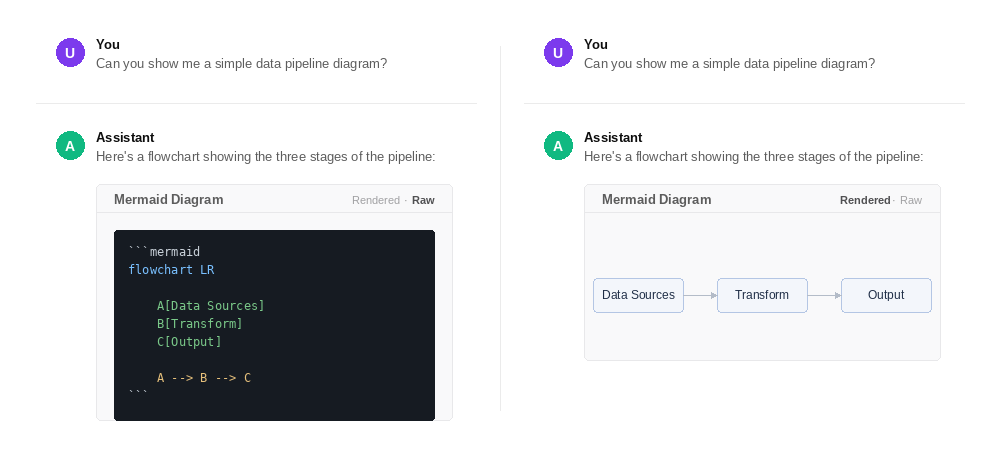
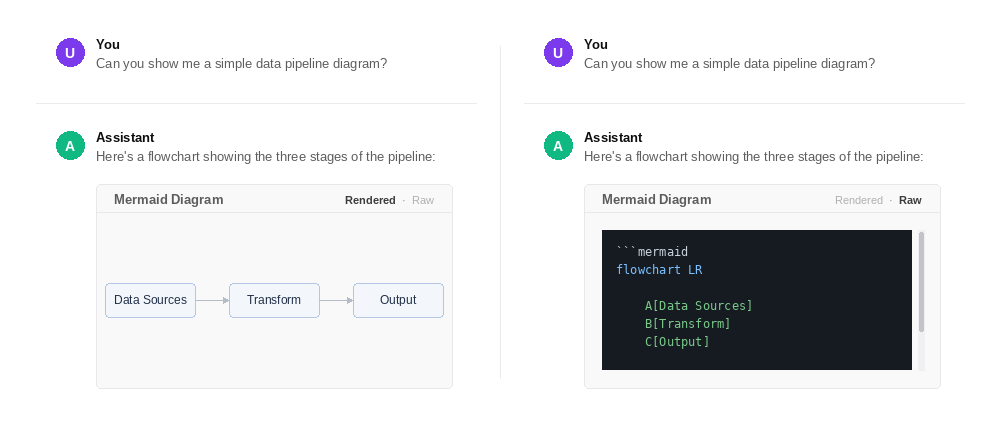
samples: rendered left sets size, raw right matches with scrollbar
Rendered panel is always on the left and its content height determines
the frame size. Raw panel on the right is the exact same dimensions;
content is clipped to that height and a scrollbar is drawn when raw
text overflows the viewport.

Claude-Session: https://claude.ai/code/session_01CYjqpWt1v2JhCDuDBEJCSM

diff --git a/samples/generate_renderer_preview.py b/samples/generate_renderer_preview.py
@@ -1,7 +1,7 @@
 """
-Renderer preview PNGs — inline chat thread mockups, subtle content-embed styling.
-The rendered object is part of the conversation, not a separate component.
-Two panels per image: Raw (left) · Rendered (right).
+Renderer preview PNGs — inline chat thread mockups.
+Left panel: Rendered (sets the frame size).
+Right panel: Raw — same frame size as Rendered, scrollbar shown if content overflows.
 Run: python3 generate_renderer_preview.py
 """
 
@@ -17,14 +17,14 @@ os.makedirs(OUT_DIR, exist_ok=True)
 # ── Palette ────────────────────────────────────────────────────────────────
 WHITE          = (255, 255, 255)
 PAGE_BG        = (255, 255, 255)
-TEXT_PRIMARY   = ( 13,  13,  13)      # near-black — matches chat prose
-TEXT_SECONDARY = ( 92,  92,  92)      # muted — matches chat secondary text
-TEXT_LABEL     = (148, 148, 148)      # very muted label / meta text
+TEXT_PRIMARY   = ( 13,  13,  13)
+TEXT_SECONDARY = ( 92,  92,  92)
+TEXT_LABEL     = (148, 148, 148)
 DIVIDER        = (235, 235, 235)
 AVATAR_USER    = (124,  58, 237)
 AVATAR_ASST    = ( 16, 185, 129)
-EMBED_BG       = (249, 249, 250)      # barely-there tint for content block
-EMBED_BORDER   = (232, 232, 234)      # very subtle 1px border
+EMBED_BG       = (249, 249, 250)
+EMBED_BORDER   = (232, 232, 234)
 CODE_BG        = ( 22,  27,  34)
 CODE_TEXT      = (201, 209, 217)
 CODE_BLUE      = (121, 192, 255)
@@ -34,8 +34,10 @@ NODE_FILL      = (243, 246, 251)
 NODE_BORDER    = (180, 198, 228)
 NODE_TEXT      = ( 30,  45,  70)
 ARROW_COL      = (180, 188, 200)
-TOGGLE_TEXT    = (160, 160, 162)      # very muted toggle labels
-TOGGLE_ACTIVE  = ( 80,  80,  82)      # slightly darker when active
+TOGGLE_ACTIVE  = ( 60,  60,  62)
+TOGGLE_MUTED   = (175, 175, 178)
+SCROLL_TRACK   = (240, 240, 242)
+SCROLL_THUMB   = (196, 196, 200)
 
 # ── Fonts ──────────────────────────────────────────────────────────────────
 def fnt(path, size):
@@ -53,6 +55,11 @@ def twidth(text, font):
 # ── Primitives ─────────────────────────────────────────────────────────────
 def rrect(draw, xy, r, fill=None, outline=None, lw=1):
     x0, y0, x1, y1 = xy
+    r = min(r, (x1-x0)//2, (y1-y0)//2)
+    if r < 1:
+        if fill:    draw.rectangle([x0,y0,x1,y1], fill=fill)
+        if outline: draw.rectangle([x0,y0,x1,y1], outline=outline, width=lw)
+        return
     if fill:
         draw.rectangle([x0+r, y0, x1-r, y1], fill=fill)
         draw.rectangle([x0, y0+r, x1, y1-r], fill=fill)
@@ -84,8 +91,9 @@ def draw_wrapped(draw, text, x, y, max_w, font, color, lh=21):
             if line: lines.append(' '.join(line))
             line = [w]
     if line: lines.append(' '.join(line))
-    for i, l in enumerate(lines):
-        draw.text((x, y + i*lh), l, font=font, fill=color)
+    if draw:
+        for i, l in enumerate(lines):
+            draw.text((x, y + i*lh), l, font=font, fill=color)
     return y + len(lines) * lh
 
 def arrow_h(draw, x0, y, x1, color=ARROW_COL, head=6):
@@ -100,66 +108,98 @@ def node(draw, cx, cy, w, h, label, r=4):
     iw = twidth(label, f)
     draw.text((cx - iw//2, cy-7), label, font=f, fill=NODE_TEXT)
 
-# ── Content embed ──────────────────────────────────────────────────────────
-# No header bar. Title is inline with toggle, same weight as chat body.
-# Container is barely-there: light bg tint + 1px subtle border.
+# ── Scrollbar ──────────────────────────────────────────────────────────────
+SCROLL_W = 6   # scrollbar track width
 
-EMBED_R    = 5
-EMBED_PAD  = 18       # internal padding
+def draw_scrollbar(draw, x, y0, y1, full_h, visible_h):
+    """Draw a minimal OS-style scrollbar. full_h = total content h, visible_h = viewport h."""
+    track_h = y1 - y0
+    thumb_h  = max(24, int(track_h * visible_h / full_h))
+    thumb_y  = y0   # scrolled to top for preview
+    # track (invisible — same as bg)
+    draw.rectangle([x, y0, x+SCROLL_W, y1], fill=SCROLL_TRACK)
+    # thumb
+    rrect(draw, [x+1, thumb_y+2, x+SCROLL_W-1, thumb_y+thumb_h-2], 3, fill=SCROLL_THUMB)
 
-def render_embed(draw, img, x0, y0, embed_w, title, active_side, content_fn):
-    """
-    Draw a minimal content embed — title + toggle on one line, then content.
-    No header bar, no component chrome. Flows as part of the message.
-    Returns bottom y.
-    """
-    content_h = content_fn(None, 0, 0, embed_w - EMBED_PAD*2, 0, measure=True)
-    title_row_h = 28
-    total_h = title_row_h + content_h + EMBED_PAD
-    x1, y1 = x0 + embed_w, y0 + total_h
+# ── Embed chrome ───────────────────────────────────────────────────────────
+EMBED_R       = 5
+EMBED_PAD     = 18
+TITLE_ROW_H   = 28
 
-    # subtle container
+def _draw_embed_chrome(draw, x0, y0, x1, y1, title, active_side):
+    """Draw the subtle container, title, and toggle. No content."""
     rrect(draw, [x0, y0, x1, y1], EMBED_R, fill=EMBED_BG, outline=EMBED_BORDER, lw=1)
+    draw.text((x0 + EMBED_PAD, y0 + 8), title, font=BOLD(13), fill=TEXT_SECONDARY)
 
-    # title — same font weight as bold chat text (BOLD 13), muted color
-    tf = BOLD(13)
-    draw.text((x0 + EMBED_PAD, y0 + 8), title, font=tf, fill=TEXT_SECONDARY)
-
-    # toggle — very subtle, top right, plain text links
-    tog_f = UI(11)
-    rend_lbl = "Rendered"
-    raw_lbl  = "Raw"
-    sep      = "·"
-    # positions from right
+    # toggle — plain text, top right
+    tog_f   = UI(11)
+    tog_b   = BOLD(11)
+    sep     = "·"
+    raw_lbl = "Raw"
+    rnd_lbl = "Rendered"
     rx = x1 - EMBED_PAD
-    rend_w = twidth(rend_lbl, tog_f)
-    raw_w  = twidth(raw_lbl,  tog_f)
-    sep_w  = twidth(sep,      tog_f) + 8
-
-    raw_x  = rx - raw_w
-    sep_x  = raw_x - sep_w
-    rend_x = sep_x - rend_w
+    raw_x = rx - twidth(raw_lbl, tog_b if active_side == 'raw' else tog_f)
+    sep_x = raw_x - twidth(sep, tog_f) - 10
+    rnd_x = sep_x - twidth(rnd_lbl, tog_b if active_side == 'rendered' else tog_f) - 2
 
     tog_y = y0 + 10
-
     if active_side == 'rendered':
-        draw.text((rend_x, tog_y), rend_lbl, font=BOLD(11), fill=TOGGLE_ACTIVE)
-        draw.text((sep_x + 4, tog_y), sep, font=tog_f, fill=TEXT_LABEL)
-        draw.text((raw_x,  tog_y), raw_lbl,  font=tog_f, fill=TOGGLE_TEXT)
+        draw.text((rnd_x, tog_y), rnd_lbl, font=tog_b, fill=TOGGLE_ACTIVE)
+        draw.text((sep_x + 4, tog_y), sep,  font=tog_f, fill=TEXT_LABEL)
+        draw.text((raw_x, tog_y),  raw_lbl, font=tog_f, fill=TOGGLE_MUTED)
     else:
-        draw.text((rend_x, tog_y), rend_lbl, font=tog_f, fill=TOGGLE_TEXT)
-        draw.text((sep_x + 4, tog_y), sep, font=tog_f, fill=TEXT_LABEL)
-        draw.text((raw_x,  tog_y), raw_lbl,  font=BOLD(11), fill=TOGGLE_ACTIVE)
+        draw.text((rnd_x, tog_y), rnd_lbl, font=tog_f, fill=TOGGLE_MUTED)
+        draw.text((sep_x + 4, tog_y), sep,  font=tog_f, fill=TEXT_LABEL)
+        draw.text((raw_x, tog_y),  raw_lbl, font=tog_b, fill=TOGGLE_ACTIVE)
 
-    # thin rule below title row
-    draw.line([(x0+1, y0+title_row_h), (x1-1, y0+title_row_h)], fill=EMBED_BORDER, width=1)
+    # rule under title row
+    draw.line([(x0+1, y0+TITLE_ROW_H), (x1-1, y0+TITLE_ROW_H)], fill=EMBED_BORDER, width=1)
 
-    # content
+def render_embed_rendered(draw, img, x0, y0, embed_w, title, content_fn):
+    """
+    Draw the Rendered embed. Content determines the height.
+    Returns (bottom_y, content_h_inside) so Raw can match.
+    """
+    content_h = content_fn(None, 0, 0, embed_w - EMBED_PAD*2, 0, measure=True)
+    total_h   = TITLE_ROW_H + EMBED_PAD + content_h + EMBED_PAD
+    x1, y1    = x0 + embed_w, y0 + total_h
+    _draw_embed_chrome(draw, x0, y0, x1, y1, title, 'rendered')
     cx0 = x0 + EMBED_PAD
-    cy0 = y0 + title_row_h + EMBED_PAD
+    cy0 = y0 + TITLE_ROW_H + EMBED_PAD
     cx1 = x1 - EMBED_PAD
     cy1 = y1 - EMBED_PAD
     content_fn(draw, cx0, cy0, cx1, cy1, measure=False)
+    return y1, total_h
+
+def render_embed_raw(draw, img, x0, y0, embed_w, title, total_h, content_fn):
+    """
+    Draw the Raw embed at the exact same total_h as the Rendered embed.
+    Clips content to the viewport; draws a scrollbar if content is taller.
+    """
+    x1, y1    = x0 + embed_w, y0 + total_h
+    _draw_embed_chrome(draw, x0, y0, x1, y1, title, 'raw')
+
+    viewport_h = total_h - TITLE_ROW_H - EMBED_PAD*2
+    content_h  = content_fn(None, 0, 0, embed_w - EMBED_PAD*2 - SCROLL_W - 4, 0, measure=True)
+    needs_scroll = content_h > viewport_h
+
+    cx0 = x0 + EMBED_PAD
+    cy0 = y0 + TITLE_ROW_H + EMBED_PAD
+    cx1 = x1 - EMBED_PAD - (SCROLL_W + 4 if needs_scroll else 0)
+    cy1 = y0 + total_h - EMBED_PAD
+
+    # clip region — draw content into a temp image then paste clipped
+    cw = cx1 - cx0
+    ch = content_h
+    tmp = Image.new("RGB", (cw, ch), CODE_BG)
+    tmp_draw = ImageDraw.Draw(tmp)
+    content_fn(tmp_draw, 0, 0, cw, ch, measure=False)
+    # paste only the visible portion
+    img.paste(tmp.crop((0, 0, cw, viewport_h)), (cx0, cy0))
+
+    if needs_scroll:
+        sx = x1 - EMBED_PAD - SCROLL_W + 2
+        draw_scrollbar(draw, sx, cy0, cy0 + viewport_h, content_h, viewport_h)
 
     return y1
 
@@ -169,39 +209,62 @@ AV_LEFT   = 20
 MSG_LEFT  = AV_LEFT + AV_R*2 + 12
 MSG_RIGHT = 24
 ROW_GAP   = 26
-EMBED_MT  = 14     # margin above embed
+EMBED_MT  = 14
 
-def paint_thread(img, tx, ty, panel_w,
-                 user_text, asst_text, embed_title, active_side, content_fn):
-    draw = ImageDraw.Draw(img)
-    y    = ty
+def paint_thread(img, tx, ty, panel_w, user_text, asst_text,
+                 embed_title, active_side, content_fn,
+                 fixed_embed_h=None):
+    """
+    Paint a chat thread. Returns (bottom_y, embed_total_h).
+    fixed_embed_h: if set, raw panel uses this height instead of computing it.
+    """
+    draw  = ImageDraw.Draw(img)
+    y     = ty
     msg_w = panel_w - MSG_LEFT - MSG_RIGHT
 
-    # ── User turn ─────────────────────────────────────────────────────────
-    avatar(draw, tx + AV_LEFT + AV_R, y + AV_R + 2, AV_R, AVATAR_USER, "U")
-    draw.text((tx + MSG_LEFT, y + 1), "You", font=BOLD(13), fill=TEXT_PRIMARY)
+    # user
+    avatar(draw, tx+AV_LEFT+AV_R, y+AV_R+2, AV_R, AVATAR_USER, "U")
+    draw.text((tx+MSG_LEFT, y+1), "You", font=BOLD(13), fill=TEXT_PRIMARY)
     y += 20
     y = draw_wrapped(draw, user_text, tx+MSG_LEFT, y, msg_w, UI(13), TEXT_SECONDARY)
     y += ROW_GAP
-
-    # row divider
     draw.line([(tx, y),(tx+panel_w, y)], fill=DIVIDER, width=1)
     y += ROW_GAP
 
-    # ── Assistant turn ────────────────────────────────────────────────────
-    avatar(draw, tx + AV_LEFT + AV_R, y + AV_R + 2, AV_R, AVATAR_ASST, "A")
-    draw.text((tx + MSG_LEFT, y + 1), "Assistant", font=BOLD(13), fill=TEXT_PRIMARY)
+    # assistant
+    avatar(draw, tx+AV_LEFT+AV_R, y+AV_R+2, AV_R, AVATAR_ASST, "A")
+    draw.text((tx+MSG_LEFT, y+1), "Assistant", font=BOLD(13), fill=TEXT_PRIMARY)
     y += 20
     y = draw_wrapped(draw, asst_text, tx+MSG_LEFT, y, msg_w, UI(13), TEXT_SECONDARY)
     y += EMBED_MT
 
-    # inline embed
     embed_w = msg_w
-    y = render_embed(draw, img, tx+MSG_LEFT, y, embed_w, embed_title, active_side, content_fn)
+    embed_h = None
 
-    return y
+    if active_side == 'rendered':
+        y, embed_h = render_embed_rendered(draw, img, tx+MSG_LEFT, y, embed_w,
+                                           embed_title, content_fn)
+    else:
+        y = render_embed_raw(draw, img, tx+MSG_LEFT, y, embed_w,
+                             embed_title, fixed_embed_h, content_fn)
+        embed_h = fixed_embed_h
+
+    return y, embed_h
 
 # ── Content painters ───────────────────────────────────────────────────────
+def mermaid_rendered(draw, x0, y0, x1, y1, measure=False):
+    h = 140
+    if measure: return h
+    pcx = (x0+x1)//2
+    pcy = y0 + h//2
+    nw, nh, gap = 90, 34, 34
+    n1x = pcx - nw - gap
+    n3x = pcx + nw + gap
+    for nx, lbl in [(n1x,"Data Sources"),(pcx,"Transform"),(n3x,"Output")]:
+        node(draw, nx, pcy, nw, nh, lbl)
+    arrow_h(draw, n1x+nw//2, pcy, pcx-nw//2)
+    arrow_h(draw, pcx+nw//2, pcy, n3x-nw//2)
+
 def mermaid_raw(draw, x0, y0, x1, y1, measure=False):
     lines = [
         ("```mermaid",           CODE_TEXT),
@@ -217,52 +280,45 @@ def mermaid_raw(draw, x0, y0, x1, y1, measure=False):
     lh, pad = 18, 14
     h = pad*2 + len(lines)*lh
     if measure: return h
-    w = x1 - x0
-    rrect(draw, [x0, y0, x1, y0+h], 3, fill=CODE_BG)
+    # fill whole area with code bg, draw lines
+    if draw: draw.rectangle([x0, y0, x1, y0+h], fill=CODE_BG)
     mf = MONO_(12)
     for i, (txt, col) in enumerate(lines):
-        draw.text((x0+14, y0+pad+i*lh), txt, font=mf, fill=col)
-
-def mermaid_rendered(draw, x0, y0, x1, y1, measure=False):
-    h = 130
-    if measure: return h
-    pcx = (x0+x1)//2
-    pcy = y0 + h//2
-    nw, nh, gap = 90, 34, 34
-    n1x = pcx - nw - gap
-    n3x = pcx + nw + gap
-    for nx, lbl in [(n1x,"Data Sources"),(pcx,"Transform"),(n3x,"Output")]:
-        node(draw, nx, pcy, nw, nh, lbl)
-    arrow_h(draw, n1x+nw//2, pcy, pcx-nw//2)
-    arrow_h(draw, pcx+nw//2, pcy, n3x-nw//2)
+        if draw: draw.text((x0+14, y0+pad+i*lh), txt, font=mf, fill=col)
 
 # ═══════════════════════════════════════════════════════════════════════════
 def make_mermaid():
     PANEL_W = 440
     OUTER   = 36
     GAP     = 48
-    W = OUTER*2 + PANEL_W*2 + GAP
+    W       = OUTER*2 + PANEL_W*2 + GAP
 
     user_msg = "Can you show me a simple data pipeline diagram?"
     asst_msg = "Here's a flowchart showing the three stages of the pipeline:"
     title    = "Mermaid Diagram"
 
-    probe = Image.new("RGB", (W, 900), PAGE_BG)
-    y_bot = paint_thread(probe, OUTER, OUTER, PANEL_W,
-                         user_msg, asst_msg, title, 'raw', mermaid_raw)
+    # ── Probe: measure rendered embed height ───────────────────────────────
+    probe = Image.new("RGB", (W, 1000), PAGE_BG)
+    y_bot, embed_h = paint_thread(probe, OUTER, OUTER, PANEL_W,
+                                  user_msg, asst_msg, title,
+                                  'rendered', mermaid_rendered)
     H = y_bot + OUTER
 
     img = Image.new("RGB", (W, H), PAGE_BG)
 
+    # Left — Rendered (sets size)
     paint_thread(img, OUTER, OUTER, PANEL_W,
-                 user_msg, asst_msg, title, 'raw', mermaid_raw)
+                 user_msg, asst_msg, title, 'rendered', mermaid_rendered)
 
+    # Gap divider
     draw = ImageDraw.Draw(img)
     gx = OUTER + PANEL_W + GAP//2
     draw.line([(gx, OUTER+10),(gx, H-OUTER-10)], fill=DIVIDER, width=1)
 
+    # Right — Raw (same embed height, scrollbar if needed)
     paint_thread(img, OUTER+PANEL_W+GAP, OUTER, PANEL_W,
-                 user_msg, asst_msg, title, 'rendered', mermaid_rendered)
+                 user_msg, asst_msg, title, 'raw', mermaid_raw,
+                 fixed_embed_h=embed_h)
 
     return img
 
